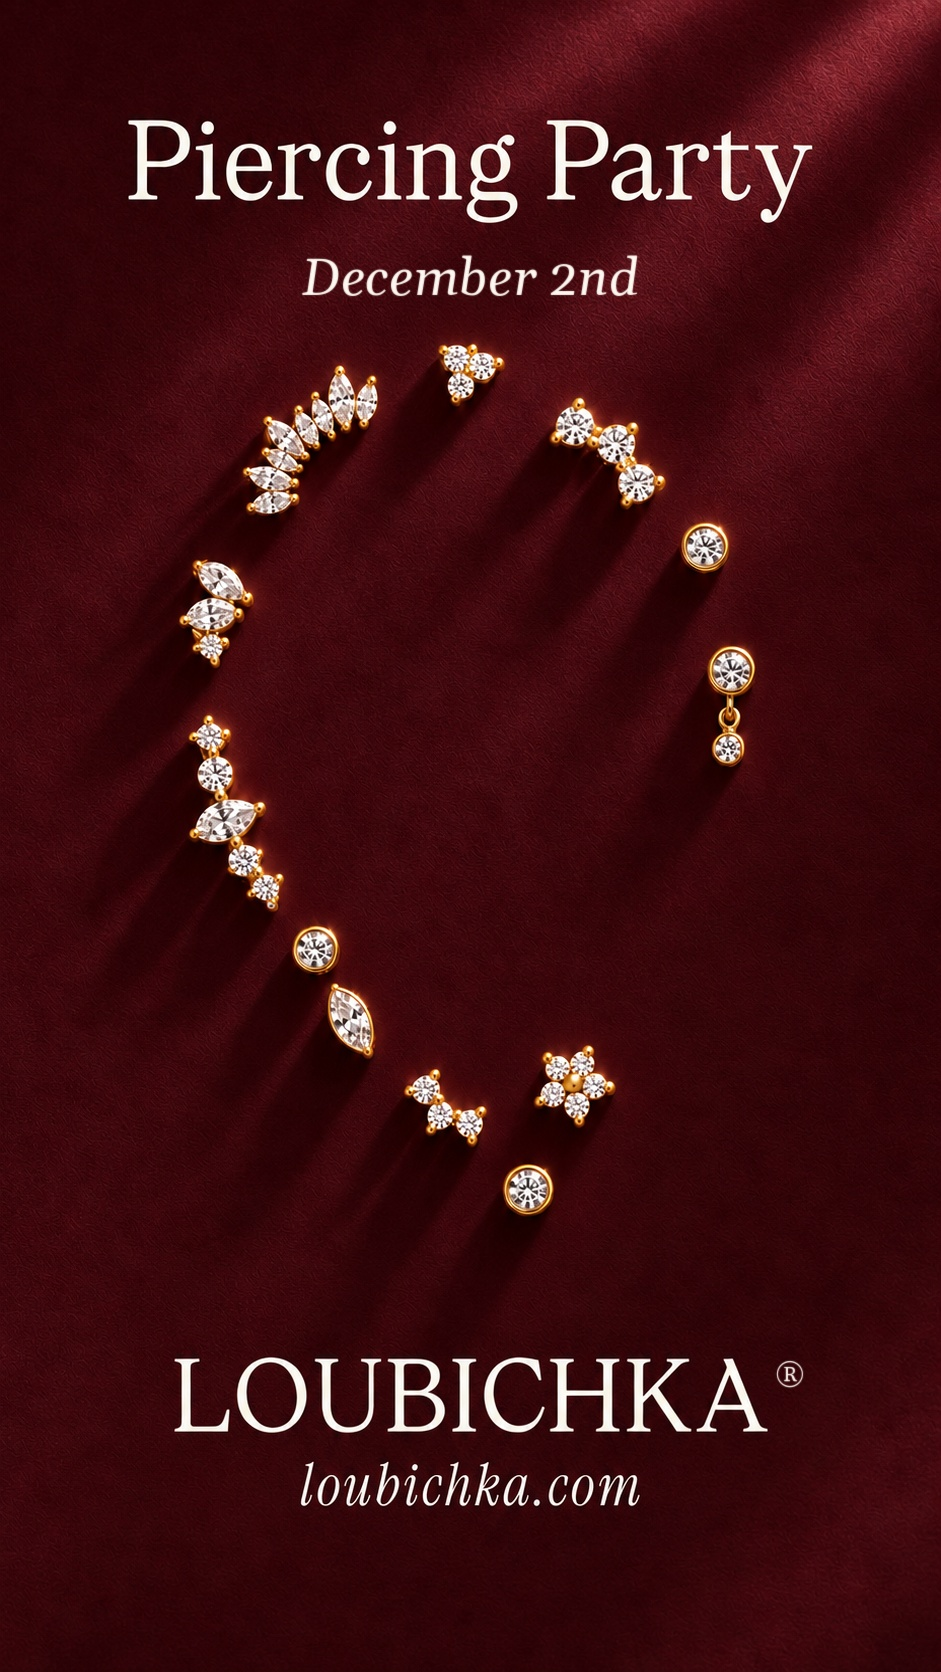
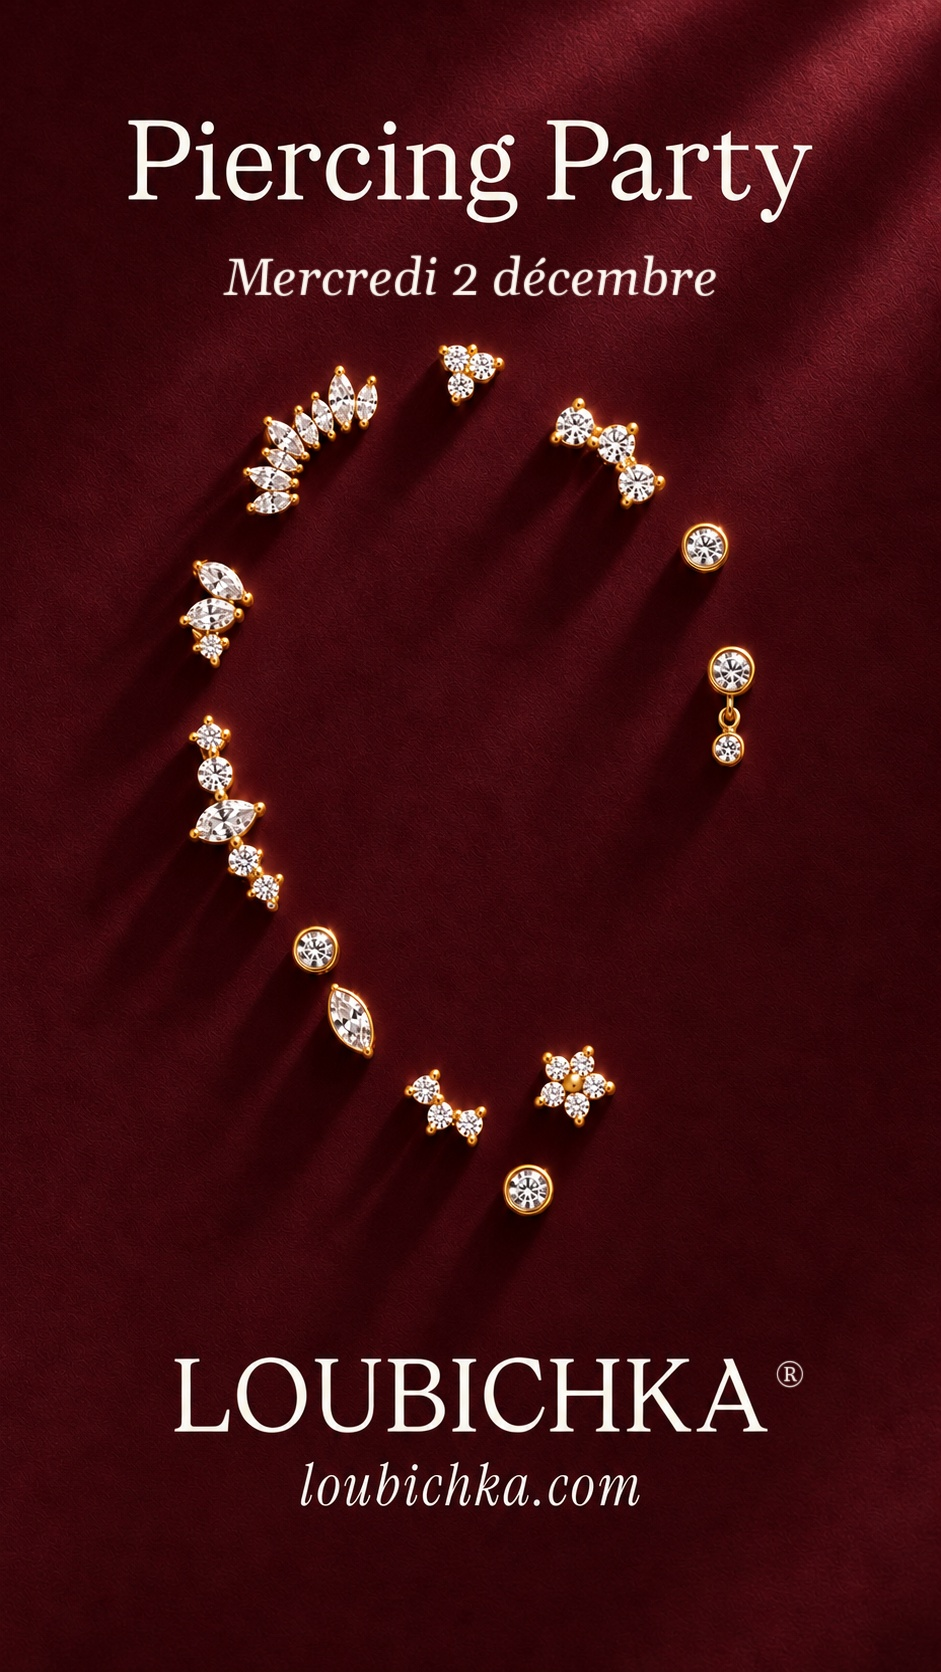
Piercing Party : date « Mercredi 2 décembre » sur l'affiche bordeaux
Claude-Session: https://claude.ai/code/session_017iEkziuimAejHGJmeydRwQ

Changed region(s): [[0.2465, 0.1555, 0.7705, 0.1866]]

diff --git a/piercing-party/index.html b/piercing-party/index.html
@@ -109,7 +109,7 @@ input:focus{border-color:var(--gold);outline:none}
 
 <div class="wrap">
   <div class="lang" role="group" aria-label="Language"><button type="button" id="lgEn" aria-pressed="true">EN</button><button type="button" id="lgFr" aria-pressed="false">FR</button></div>
-    <img class="poster" id="poster" alt="Piercing Party, December 2nd, LOUBICHKA®, loubichka.com" src="/a/pp/affiche-bordeaux.jpg?v=3">
+    <img class="poster" id="poster" alt="Piercing Party, mercredi 2 décembre, LOUBICHKA®, loubichka.com" src="/a/pp/affiche-bordeaux.jpg?v=4">
     <section class="book" aria-labelledby="ttl">
     <span class="eyebrow">Loubichka<sup class="r">®</sup> · The Art of Ear Styling</span>
     <h1 id="ttl">Piercing Party</h1>
